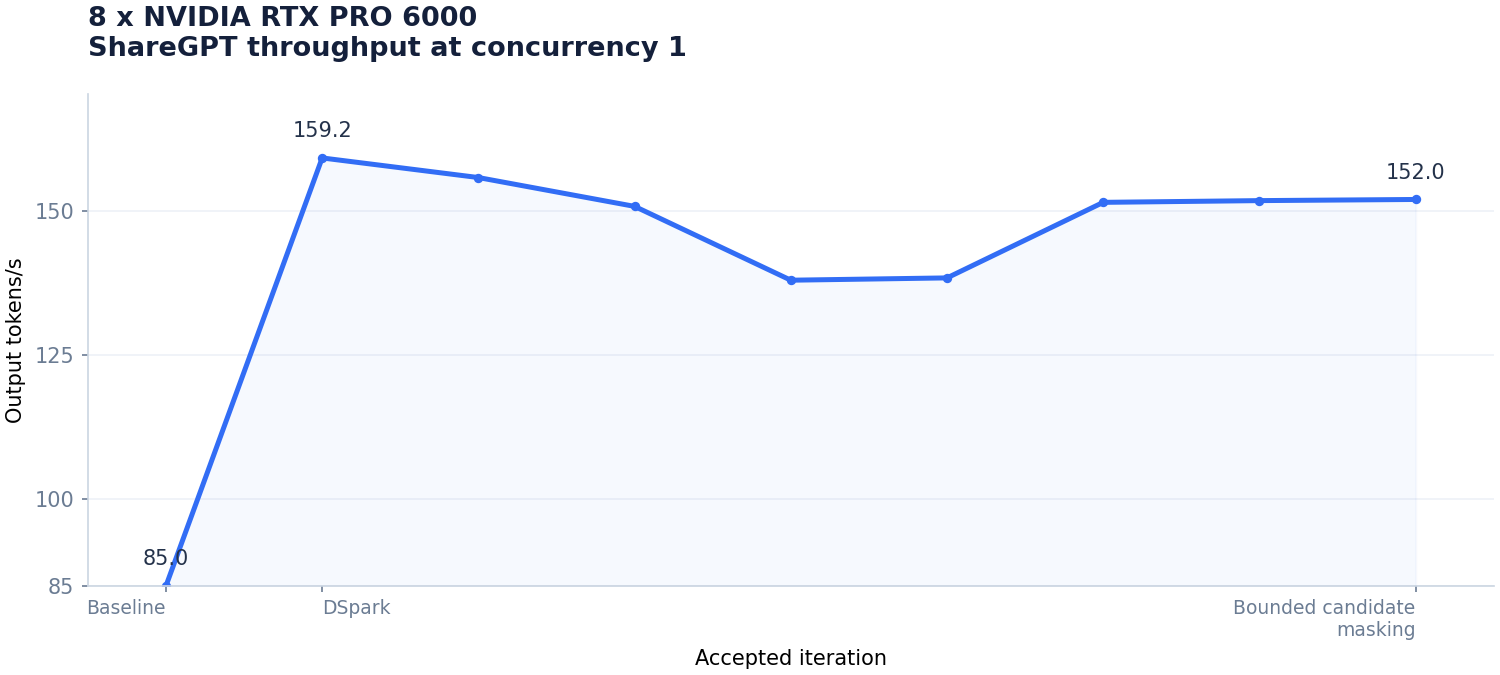
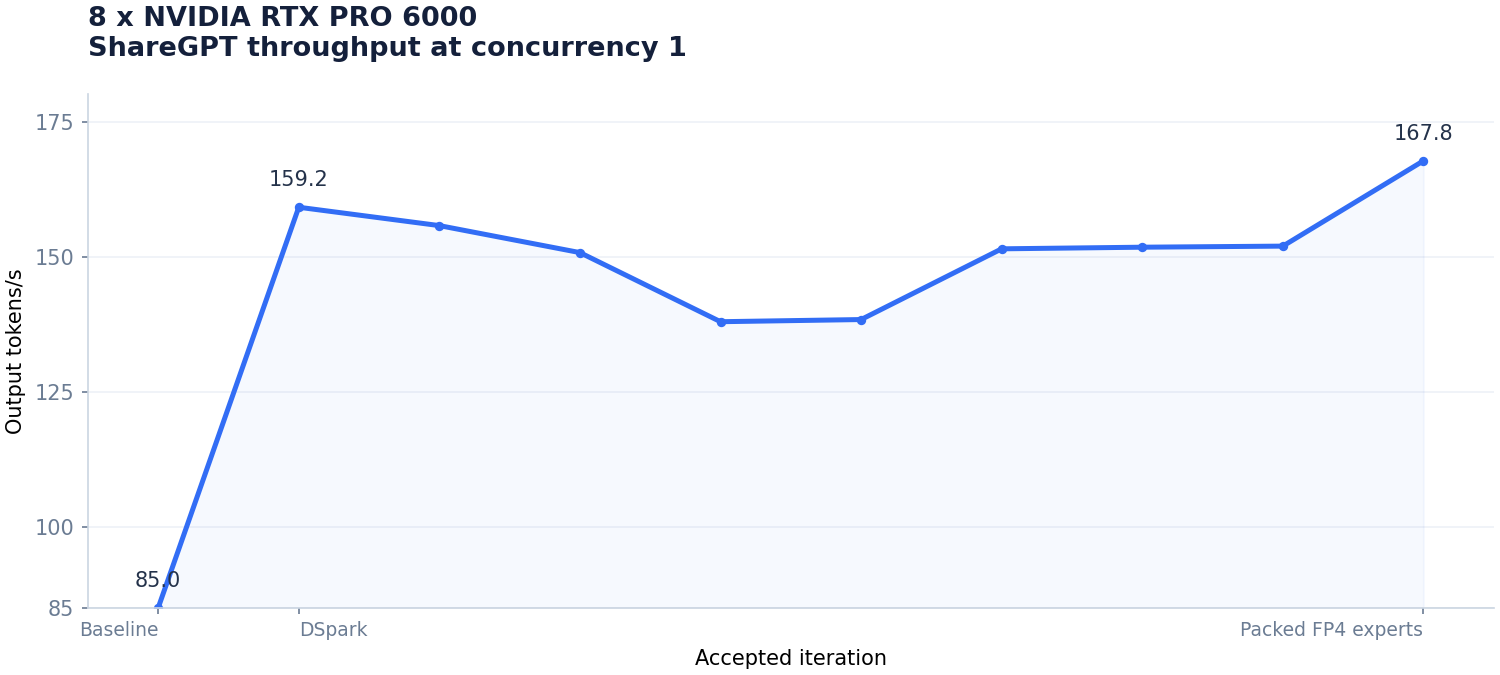
Add packed FP4 expert kernels

diff --git a/8-nvidia-rtx-pro-6000/CHANGELOG.md b/8-nvidia-rtx-pro-6000/CHANGELOG.md
@@ -4,9 +4,11 @@ The patch is cumulative against `vllm/vllm-openai:v0.32.0`; every working milest
 
 FlashInfer 0.7.1 replaces the bundled 0.7.0.post1 for runtime page-size support, and both the sm120 compatibility patch and `--block-size 64` are required.
 
-## 9. Bounded candidate masking
+## 10. Packed FP4 experts
 
-- Mask only valid logits during sm120 decode in diff.patch because top-k already ignores columns beyond each request's context.
+- Use native FP4 pair conversion for small expert batches in diff.patch to reduce decoding work and avoid DeepGEMM's 128-row padding.
+- Fuse the down projection with routing-weight reduction to remove separate permutation and reduction passes.
+- Keep DeepGEMM for batches above four rows to preserve its larger-matrix efficiency.
 
 Requirements, on a fresh vLLM image:
 
@@ -39,14 +41,14 @@ vllm serve deepseek-ai/DeepSeek-V4.1-Flash-1017 \
 
 | Concurrency | Prompts | Output t/s | p95 TTFT (ms) | p95 TPOT (ms) |
 |---:|---:|---:|---:|---:|
-| 1 | 128 | 152.0 | 129.8 | 7.88 |
-| 4 | 128 | 378.7 | 113.4 | 12.74 |
-| 8 | 128 | 582.4 | 214.0 | 15.74 |
-| 16 | 128 | 831.4 | 275.5 | 22.44 |
-| 32 | 128 | 1139.8 | 388.6 | 30.54 |
-| 64 | 128 | 1470.3 | 801.5 | 43.60 |
-| 128 | 256 | 2097.0 | 1354.1 | 72.29 |
-| 256 | 512 | 2820.1 | 2783.5 | 139.30 |
+| 1 | 128 | 167.8 | 129.9 | 7.24 |
+| 4 | 128 | 387.8 | 117.2 | 12.83 |
+| 8 | 128 | 590.5 | 224.0 | 15.99 |
+| 16 | 128 | 830.9 | 282.0 | 22.11 |
+| 32 | 128 | 1135.2 | 392.2 | 30.81 |
+| 64 | 128 | 1465.6 | 794.0 | 51.60 |
+| 128 | 256 | 2050.5 | 1343.0 | 72.65 |
+| 256 | 512 | 2755.9 | 3725.6 | 206.44 |
 
 ## Accepted progress
 
@@ -60,4 +62,5 @@ vllm serve deepseek-ai/DeepSeek-V4.1-Flash-1017 \
 | 6 | Indexer scratch memory | 138.4 | [`891d19f`](https://github.com/alvarobartt/DeepSeek-V4.1-Flash-RTX-PRO-6000/tree/891d19f0991391ec7d65bf11ca467aef21ffa5c4) |
 | 7 | Small-message all-reduce | 151.5 | [`36eef82`](https://github.com/alvarobartt/DeepSeek-V4.1-Flash-RTX-PRO-6000/tree/36eef8206664ec7fe510d0b24f52296a87a950b9) |
 | 8 | Native FP8 cache | 151.8 | [`a9e6ae8`](https://github.com/alvarobartt/DeepSeek-V4.1-Flash-RTX-PRO-6000/tree/a9e6ae8dd71ddca1d6a113493d382719633b3a5c) |
-| 9 | Bounded candidate masking | 152.0 | This revision |
+| 9 | Bounded candidate masking | 152.0 | [`51061a6`](https://github.com/alvarobartt/DeepSeek-V4.1-Flash-RTX-PRO-6000/tree/51061a663497d98b907a35da5ddb76048eaacddb) |
+| 10 | Packed FP4 experts | 167.8 | This revision |

diff --git a/README.md b/README.md
@@ -15,14 +15,14 @@ Validated serving recipes for four and eight GPUs, using the checkpoint's origin
 
 | Concurrency | Baseline t/s [^8gpu-baseline] | Baseline + DSpark t/s | Current t/s |
 |---:|---:|---:|---:|
-| 1 | 85.0 | **159.2 (+87.3%)** | 152.0 (-4.5%) |
-| 4 | 253.2 | **380.4 (+50.2%)** | 378.7 (-0.4%) |
-| 8 | 375.4 | 496.2 (+32.2%) | **582.4 (+17.4%)** |
-| 16 | 553.1 | 650.5 (+17.6%) | **831.4 (+27.8%)** |
-| 32 | 657.4 | 954.1 (+45.1%) | **1139.8 (+19.5%)** |
-| 64 | 866.2 | 1185.0 (+36.8%) | **1470.3 (+24.1%)** |
-| 128 | 1242.4 | 1471.9 (+18.5%) | **2097.0 (+42.5%)** |
-| 256 | 1814.1 | 1726.3 (-4.8%) | **2820.1 (+63.4%)** |
+| 1 | 85.0 | 159.2 (+87.3%) | **167.8 (+5.4%)** |
+| 4 | 253.2 | 380.4 (+50.2%) | **387.8 (+1.9%)** |
+| 8 | 375.4 | 496.2 (+32.2%) | **590.5 (+19.0%)** |
+| 16 | 553.1 | 650.5 (+17.6%) | **830.9 (+27.7%)** |
+| 32 | 657.4 | 954.1 (+45.1%) | **1135.2 (+19.0%)** |
+| 64 | 866.2 | 1185.0 (+36.8%) | **1465.6 (+23.7%)** |
+| 128 | 1242.4 | 1471.9 (+18.5%) | **2050.5 (+39.3%)** |
+| 256 | 1814.1 | 1726.3 (-4.8%) | **2755.9 (+59.6%)** |
 
 ![Accepted ShareGPT c1 throughput](8-nvidia-rtx-pro-6000/throughput.png)
 
